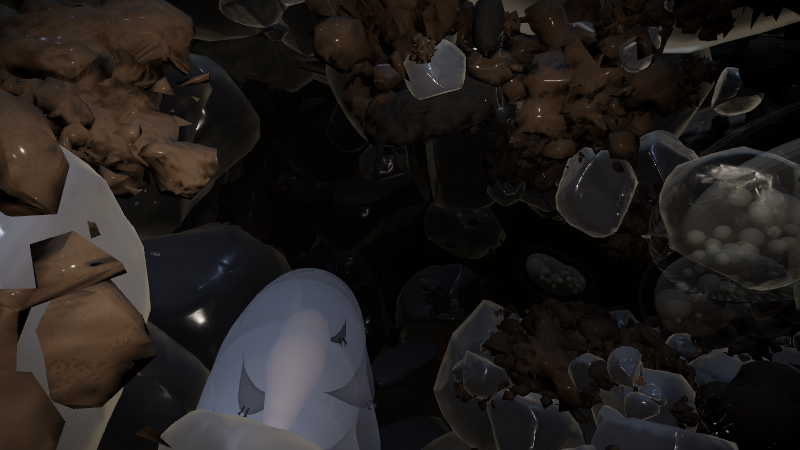
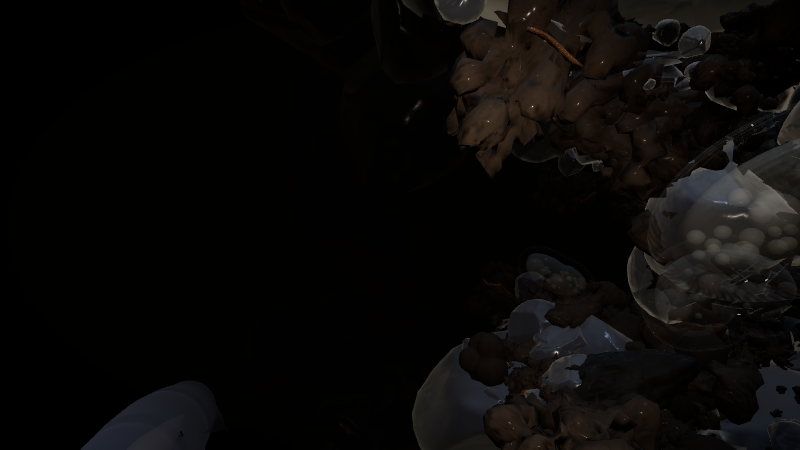
UNDERSOIL: guided organism introductions (camera visits, name labels, colony highlight, replay button), larger tardigrade cavern
Claude-Session: https://claude.ai/code/session_01HXHWaeyj425ipGMnohy3Vo

diff --git a/undersoil/src/pages/screen.ts b/undersoil/src/pages/screen.ts
@@ -7,7 +7,7 @@ import { createRenderer } from '../core/renderer';
 import { setProgressListener } from '../core/assets';
 import { detectDevice, pickTier, rendererPref, TIER_LABEL, type QualityTier } from '../core/platform';
 import { createGame } from '../game/game';
-import { makeFreeControls } from '../game/controls';
+import { makeFreeControls, pushOut } from '../game/controls';
 import { makeDemo } from '../game/demo';
 import { makePost } from '../game/post';
 import { buildSurface, type Surface } from '../game/surface';
@@ -88,7 +88,7 @@ async function main() {
   ($('loadBar') as HTMLElement).style.width = '100%';
   const begin = () => { started = true; audio.start(); setTimeout(() => $('loading').classList.add('hide'), 250); stopFacts(); if (wetQ === null && !testing) setTimeout(() => demo.start(), 2500); };
   // 確認用：?card=<id> で紹介カードをすぐ出す
-  const cardQ = Q.get('card'); if (cardQ && SPECIES[cardQ]) setTimeout(() => { const T: Record<string, () => Target> = { sand: grain('quartz'), aggregate: grain('aggregate'), humus: grain('humus'), clay: grain('clay'), 'water-film': bridge, 'bacillus-subtilis': bacteria, 'pseudomonas-fluorescens': pseudo, colpoda, 'trifolium-repens': seedling, 'paramacrobiotus-metropolitanus': tardi }; const t = T[cardQ]; showCard(SPECIES[cardQ], { narration: false, holdMs: 600000, pointing: !!t }); pointer.show(t ?? null); }, 50);
+  const cardQ = Q.get('card'); if (cardQ && SPECIES[cardQ]) setTimeout(() => { const T: Record<string, () => Target> = { sand: grain('quartz'), aggregate: grain('aggregate'), humus: grain('humus'), clay: grain('clay'), 'water-film': bridge, 'bacillus-subtilis': bacteria, 'pseudomonas-fluorescens': pseudo, colpoda, 'trifolium-repens': seedling, 'paramacrobiotus-metropolitanus': tardi }; const t = T[cardQ]; showCard(SPECIES[cardQ], { narration: false, holdMs: 600000, pointing: !!t }); pointer.show(t ?? null, SPECIES[cardQ].nameJa); if (ORGANISMS.includes(cardQ)) beginVisit(cardQ, t ?? null); }, 1500);
   if (testing) begin(); else { const b = $('start') as HTMLButtonElement; b.hidden = false; b.addEventListener('click', begin, { once: true }); }
 
   // 出会いの順番（M1 の自動の流れ用。M3 で、プレイヤーの位置と行動に結び付ける）
@@ -100,12 +100,47 @@ async function main() {
   const bridge = (): Target => { let best: THREE.Vector3 | null = null, bs = 0; const f = fwd(), d = new THREE.Vector3();
     game.bridges.centers.forEach((c, i) => { if (world.grid.cells[game.bridges.cells[i]].water < 0.3) return; d.subVectors(c, camera.position); const dist = d.length(); if (dist < 3 || dist > 30) return; const cs = d.dot(f) / dist; if (cs < 0.85) return; const sc = cs / (1 + dist * 0.06); if (sc > bs) { bs = sc; best = c; } });
     return best ? { p: (best as THREE.Vector3).clone(), r: 2.5 } : null; };
-  const bacteria = (): Target => game.swarm.find(camera.position, fwd());
-  const pseudo = (): Target => game.swarm2.find(camera.position, fwd());
+  // 細菌の集落：カメラの前になければ、まわりのどの向きからでも探す
+  const dirs = [new THREE.Vector3(1, 0, 0), new THREE.Vector3(-1, 0, 0), new THREE.Vector3(0, 0, 1), new THREE.Vector3(0, 0, -1), new THREE.Vector3(0, 1, 0), new THREE.Vector3(0, -1, 0)];
+  const anyDir = (f: (d: THREE.Vector3) => Target) => () => { const a = f(fwd()); if (a) return a; for (const d of dirs) { const b = f(d); if (b) return b; } return null; };
+  const bacteria = anyDir((d) => { const f = game.swarm.find(camera.position, d); return f ? { ...f, r: 0.6 } : null; });
+  const pseudo = anyDir((d) => { const f = game.swarm2.find(camera.position, d); return f ? { ...f, r: 0.6 } : null; });
   const colpoda = (): Target => { const p = game.creatures.nearest(camera.position); return p ? { p: p.clone(), r: 4.5 } : null; };
   const tardi = (): Target => game.tardigrade.target();
   const seedling = (): Target => mode === 'surface' ? { p: new THREE.Vector3(0.3, surface.groundY + 1.2, 0.2), r: 3.2 } : null;
   let focusT: THREE.Vector3 | null = null;
+  // 生き物を見せに行く：カードが出ている間、カメラはその生き物のそばで止まり、離れていれば暗転して移る
+  const ORGANISMS = ['bacillus-subtilis', 'pseudomonas-fluorescens', 'colpoda', 'paramacrobiotus-metropolitanus'];
+  const VIEW: Record<string, number> = { 'bacillus-subtilis': 2.2, 'pseudomonas-fluorescens': 2.6, colpoda: 13, 'paramacrobiotus-metropolitanus': 70 };
+  let visit: { get: () => Target; dist: number; pos: THREE.Vector3; anchor: THREE.Vector3; ret: THREE.Vector3; retQ: THREE.Quaternion } | null = null;
+  /** 生き物がよく見える位置：まわりの向きを順に試し、間に粒がない向きを選ぶ */
+  const clear = (a: THREE.Vector3, b: THREE.Vector3, skip: number) => { const d = b.clone().sub(a), L = d.length(); d.divideScalar(L);
+    for (const c of world.colliders) { const v = new THREE.Vector3(c.x, c.y, c.z).sub(a); const t = v.dot(d); if (t < 0.5 || t > L - skip) continue; if (v.lengthSq() - t * t < (c.r * 0.95) ** 2) return false; } return true; };
+  const viewFor = (p: THREE.Vector3, dist: number, view?: THREE.Vector3) => {
+    if (view) return view.clone();
+    // まず、生き物が付いている粒の表面の真正面（粒の中心から外へ向かう向き）から見る
+    let host: { x: number; y: number; z: number; r: number } | null = null, hd = 1e9;
+    for (const c of world.colliders) { const d = Math.hypot(p.x - c.x, p.y - c.y, p.z - c.z) - c.r; if (d < hd) { hd = d; host = c; } }
+    if (host && hd < 1.5) { const n = p.clone().sub(new THREE.Vector3(host.x, host.y, host.z)).normalize(); const v = p.clone().addScaledVector(n, dist); pushOut(v, world.colliders, 0.6); if (clear(v, p, dist * 0.3)) return v; }
+    const base = camera.position.clone().sub(p); base.y = 0; if (base.lengthSq() < 1e-4) base.set(1, 0, 0); base.normalize();
+    for (let k = 0; k < 16; k++) {
+      const ang = (k % 8) * Math.PI / 4 * (k % 2 ? 1 : -1) * 0.5 + (k >= 8 ? Math.PI : 0), el = k >= 8 ? 0.6 : 0.3;
+      const d = base.clone().applyAxisAngle(new THREE.Vector3(0, 1, 0), ang); d.y = el; d.normalize();
+      const v = p.clone().addScaledVector(d, dist); pushOut(v, world.colliders, 1.0);
+      if (clear(v, p, dist * 0.35)) return v;
+    }
+    const v = p.clone().addScaledVector(base, dist); pushOut(v, world.colliders, 1.0); return v;
+  };
+  const beginVisit = (id: string, t: (() => Target) | null) => {
+    if (!t || !touring) return; const first = t(); if (!first) return;
+    const dist = VIEW[id] ?? 6, pos = viewFor(first.p, dist, first.view);
+    // 手前の細かい粒で見えなくならないよう、見ている間だけ、カメラのすぐ前（距離の半分まで）は描かない
+    camera.near = Math.max(0.08, dist * 0.5); camera.updateProjectionMatrix();
+    if (id === 'bacillus-subtilis') game.swarm.highlight(first.p); if (id === 'pseudomonas-fluorescens') game.swarm2.highlight(first.p);
+    visit = { get: t, dist, pos, anchor: first.p.clone(), ret: camera.position.clone(), retQ: camera.quaternion.clone() };
+    if (camera.position.distanceTo(pos) > 12) { fade.classList.add('on'); setTimeout(() => { if (visit) { camera.position.copy(visit.pos); const f = visit.get(); if (f) camera.lookAt(f.p); } fade.classList.remove('on'); }, 700); }
+  };
+  const endVisit = () => { game.swarm.highlight(null); game.swarm2.highlight(null); if (!visit) return; const v = visit; visit = null; setTimeout(() => { camera.near = 0.08; camera.updateProjectionMatrix(); }, 700); if (camera.position.distanceTo(v.ret) > 12) { fade.classList.add('on'); setTimeout(() => fade.classList.remove('on'), 700); } };
   const enc = makeEncounters([
     { id: 'sand', when: () => mode === 'soil' && started && !!grain('quartz')(), target: grain('quartz') },
     { id: 'aggregate', when: () => mode === 'soil' && started && !!grain('aggregate')(), target: grain('aggregate') },
@@ -114,10 +149,11 @@ async function main() {
     { id: 'humus', when: () => mode === 'soil' && cellW(4) > 0.4 && !!grain('humus')(), target: grain('humus') },
     { id: 'pseudomonas-fluorescens', when: () => mode === 'soil' && cellM(6) > 0.3 && !!pseudo(), target: pseudo },
     { id: 'colpoda', when: () => mode === 'soil' && game.creatures.anyActive(), target: colpoda },
-    { id: 'paramacrobiotus-metropolitanus', when: () => mode === 'soil' && game.tardigrade.active() && camera.position.distanceTo(world.cavern.center) < 70, target: tardi },
+    { id: 'paramacrobiotus-metropolitanus', when: () => mode === 'soil' && game.tardigrade.active(), target: tardi },
     { id: 'clay', when: () => mode === 'soil' && cellW(8) > 0.4 && !!grain('clay')(), target: grain('clay') },
     { id: 'trifolium-repens', when: () => mode === 'surface' && surface.growth > 0.75, target: seedling },
-  ], { gapSec: 4, onShow: (_id, t) => { audio.chime(); pointer.show(t); }, onHide: () => { pointer.hide(); focusT = null; } });
+  ], { gapSec: 4, onShow: (id, t) => { audio.chime(); pointer.show(t, SPECIES[id]?.nameJa ?? ''); if (ORGANISMS.includes(id)) beginVisit(id, t); }, onHide: () => { pointer.hide(); focusT = null; endVisit(); } });
+  $('meet').addEventListener('click', () => { enc.replay(ORGANISMS); if (!touring) $('tour').click(); });
   $('water').addEventListener('click', () => demo.start());
   $('dry').addEventListener('click', () => demo.dry());
   $('sprout').addEventListener('click', () => switchTo(mode === 'soil' ? 'surface' : 'soil'));
@@ -149,6 +185,7 @@ async function main() {
     const t = fixedT !== null ? Number(fixedT) : now / 1000; const dt = last ? Math.min(0.1, (now - last) / 1000) : 0; last = now;
     if (dbg) { const v = dbg.split(',').map(Number); camera.position.set(v[0], v[1], v[2]); camera.lookAt(v[3], v[4], v[5]); }
     else if (camT !== null) placeOnPath(Number(camT));
+    else if (touring && visit) { const f = visit.get(); if (f) { const want = f.view ? f.view : visit.pos.clone().add(f.p.clone().sub(visit.anchor)); camera.position.lerp(want, 1 - Math.exp(-dt * 1.2)); const q0 = camera.quaternion.clone(); camera.lookAt(f.p); camera.quaternion.slerp(q0, Math.exp(-dt * 3)); } }
     else if (touring && pointer.focus()) { const f = pointer.focus()!; focusT = focusT ? focusT.lerp(f, 1 - Math.exp(-dt * 2)) : look.clone(); const q0 = camera.quaternion.clone(); camera.lookAt(focusT); camera.quaternion.slerp(q0, Math.exp(-dt * 1.5)); }
     else if (touring) { tourU = (tourU + dt * 0.012) % 1; placeOnPath(0.02 + 0.66 * (0.5 - 0.5 * Math.cos(tourU * Math.PI * 2))); /* 奥の種のまわり（まだ作っていない）へは行かない */ }
     else controls.update(dt);

diff --git a/undersoil/src/game/swarm.ts b/undersoil/src/game/swarm.ts
@@ -1,11 +1,11 @@
 // 細菌の群れ：桿菌（両端が丸い棒）をインスタンス描画し、動きは頂点シェーダーで作る。
 // 水の膜の中でだけ泳ぐ。乾いた区画では見えない（芽胞として休眠している）。
 import * as THREE from 'three/webgpu';
-import { float, vec3, instancedBufferAttribute, time, sin, cos, positionLocal, mix, saturate, normalView, positionViewDirection, dot, pow, oneMinus, hash, instanceIndex } from 'three/tsl';
+import { float, vec3, instancedBufferAttribute, time, sin, cos, positionLocal, mix, saturate, normalView, positionViewDirection, dot, pow, oneMinus, hash, instanceIndex , uniform, smoothstep } from 'three/tsl';
 import type { Collider } from './world';
 import { makeRng } from './rng';
 
-export interface Swarm { mesh: THREE.InstancedMesh; count: number; sync(microbesOfCell: (cell: number) => number): void; find(from: THREE.Vector3, fwd: THREE.Vector3): { p: THREE.Vector3; r: number } | null; }
+export interface Swarm { highlight(p: THREE.Vector3 | null): void; mesh: THREE.InstancedMesh; count: number; sync(microbesOfCell: (cell: number) => number): void; find(from: THREE.Vector3, fwd: THREE.Vector3): { p: THREE.Vector3; r: number } | null; }
 
 /** 1 単位 = 10 µm。枯草菌は太さ約 0.8 µm × 長さ 2〜3 µm → 0.08 × 0.25 単位 */
 export type Species = 'bacillus' | 'pseudomonas';
@@ -72,7 +72,11 @@ export function buildSwarm(colliders: Collider[], cellOf: (p: THREE.Vector3) => 
   const rim = pow(oneMinus(saturate(dot(normalView, positionViewDirection))), 2.0);
   m.colorNode = vec3(0.22, 0.23, 0.22);
   m.emissiveNode = vec3(0.06, 0.065, 0.06).mul(rim).add(vec3(0.30, 0.30, 0.26).mul(aBright));   // 芽胞は光を強く屈折して明るく見える
-  m.opacityNode = mix(mix(float(0.04), float(0.45), pow(rim, float(1.6))), float(0.9), aBright);
+  // 紹介中は、指し示した集落の細菌だけを、縁を金色に光らせて見分けやすくする
+  const uHi = uniform(new THREE.Vector3()), uHiOn = uniform(0);
+  const near = smoothstep(2.2, 0.8, aPos.distance(uHi)).mul(uHiOn);
+  m.emissiveNode = vec3(0.06, 0.065, 0.06).mul(rim).add(vec3(0.30, 0.30, 0.26).mul(aBright)).add(vec3(0.55, 0.38, 0.16).mul(rim.mul(0.7).add(0.3)).mul(near));
+  m.opacityNode = mix(mix(mix(float(0.04), float(0.45), pow(rim, float(1.6))), float(0.9), aBright), float(0.95), near.mul(0.7));
   m.roughnessNode = float(0.3); m.metalnessNode = float(0);
   void hash; void instanceIndex;
   const mesh = new THREE.InstancedMesh(geo, m, n2); mesh.name = 'swarm_' + species; mesh.frustumCulled = false;
@@ -82,11 +86,11 @@ export function buildSwarm(colliders: Collider[], cellOf: (p: THREE.Vector3) => 
     const c = new THREE.Vector3(), d = new THREE.Vector3(); let best: THREE.Vector3 | null = null, bs = 0;
     for (let i = 0; i < n2; i += 7) {
       if (liveArr[i] < 0.5) continue; c.set(pos[i * 3], pos[i * 3 + 1], pos[i * 3 + 2]); d.subVectors(c, from); const dist = d.length();
-      if (dist < 3 || dist > 22 || d.dot(fwd) / dist < 0.85) continue;
+      if (dist < 3 || dist > 22 || d.dot(fwd) / dist < 0.85 || nearPath(c) > 9) continue;
       let k = 0; for (let j = 0; j < n2; j += 3) if (liveArr[j] > 0.5 && (pos[j * 3] - c.x) ** 2 + (pos[j * 3 + 1] - c.y) ** 2 + (pos[j * 3 + 2] - c.z) ** 2 < 2.25) k++;
       const sc = k / (1 + dist * 0.05); if (sc > bs) { bs = sc; best = c.clone(); }
     }
     return best ? { p: best, r: 1.6 } : null;
   };
-  return { mesh, count: n2, find, sync(w) { const a = liveAttr.array as Float32Array; let ch = false; for (let i = 0; i < n2; i++) { const target = w(cells[i]) > (i % 97) / 97 * 0.9 + 0.05 ? 1 : 0; if (a[i] !== target) { a[i] += Math.sign(target - a[i]) * 0.2; if (Math.abs(a[i] - target) < 0.2) a[i] = target; ch = true; } } if (ch) liveAttr.needsUpdate = true; } };
+  return { highlight(p) { if (p) { uHi.value.copy(p); uHiOn.value = 1; } else uHiOn.value = 0; }, mesh, count: n2, find, sync(w) { const a = liveAttr.array as Float32Array; let ch = false; for (let i = 0; i < n2; i++) { const target = w(cells[i]) > (i % 97) / 97 * 0.9 + 0.05 ? 1 : 0; if (a[i] !== target) { a[i] += Math.sign(target - a[i]) * 0.2; if (Math.abs(a[i] - target) < 0.2) a[i] = target; ch = true; } } if (ch) liveAttr.needsUpdate = true; } };
 }

diff --git a/undersoil/src/ui/pointer.ts b/undersoil/src/ui/pointer.ts
@@ -28,12 +28,13 @@ export function makePointer(camera: THREE.PerspectiveCamera, scenes: THREE.Scene
   const ring2 = document.createElementNS(NS, 'circle'); ring2.classList.add('pr2');
   const ticks = document.createElementNS(NS, 'path'); ticks.classList.add('pt');
   const arrow = document.createElementNS(NS, 'path'); arrow.classList.add('pa');
-  svg.append(line, ring2, ring, ticks, arrow); document.body.append(svg);
+  const tag = document.createElementNS(NS, 'text'); tag.classList.add('ptag');
+  svg.append(line, ring2, ring, ticks, arrow, tag); document.body.append(svg);
   let get: (() => Target) | null = null, cached: Target = null, refresh = 0, t0 = 0;
   const v = new THREE.Vector3(), e = new THREE.Vector3(), right = new THREE.Vector3();
   return {
     /** 指し示し始める（相手が動くもののときは、毎フレーム位置を取り直す） */
-    show(fn: (() => Target) | null) { get = fn; cached = fn ? fn() : null; refresh = 0; t0 = performance.now(); svg.classList.toggle('on', !!cached); hl.forEach((h) => h.set(cached?.geo, cached?.matrix)); },
+    show(fn: (() => Target) | null, label = '') { tag.textContent = label; get = fn; cached = fn ? fn() : null; refresh = 0; t0 = performance.now(); svg.classList.toggle('on', !!cached); hl.forEach((h) => h.set(cached?.geo, cached?.matrix)); },
     hide() { get = null; cached = null; svg.classList.remove('on'); hl.forEach((h) => h.hide()); },
     /** カメラが向くべき位置（自動で巡っている間だけ使う） */
     focus(): THREE.Vector3 | null { return cached ? cached.p : null; },
@@ -58,11 +59,12 @@ export function makePointer(camera: THREE.PerspectiveCamera, scenes: THREE.Scene
         const cx = Math.max(40, Math.min(W - 40, x)), cy = Math.max(40, Math.min(H - 40, y)), a = Math.atan2(y - H / 2, x - W / 2);
         const tip = (d: number, s: number) => `${cx + Math.cos(a + s) * d},${cy + Math.sin(a + s) * d}`;
         arrow.setAttribute('d', `M${tip(18, 0)} L${tip(14, 2.5)} L${tip(14, -2.5)} Z`); arrow.style.display = '';
-        ring.style.display = ring2.style.display = ticks.style.display = 'none'; line.setAttribute('d', '');
+        ring.style.display = ring2.style.display = ticks.style.display = 'none'; line.setAttribute('d', ''); tag.setAttribute('x', String(cx)); tag.setAttribute('y', String(cy - 26));
         return;
       }
       arrow.style.display = 'none'; ring.style.display = ring2.style.display = cached.geo ? 'none' : ''; ticks.style.display = '';
       ring.setAttribute('cx', String(x)); ring.setAttribute('cy', String(y)); ring.setAttribute('r', String(r * pulse));
+      tag.setAttribute('x', String(x)); tag.setAttribute('y', String(Math.max(28, y - r * 1.22 - 16)));
       ring2.setAttribute('cx', String(x)); ring2.setAttribute('cy', String(y)); ring2.setAttribute('r', String(r * 1.22));
       const t = r * 1.22, k = 9;
       ticks.setAttribute('d', `M${x - t - k},${y} h${k} M${x + t},${y} h${k} M${x},${y - t - k} v${k} M${x},${y + t} v${k}`);

diff --git a/undersoil/src/game/tardigrade.ts b/undersoil/src/game/tardigrade.ts
@@ -21,7 +21,7 @@ export async function buildTardigrade(base: string, world: World, lod: 0 | 1): P
     body.colorNode = mix(mix(vec3(0.42, 0.46, 0.58), vec3(0.52, 0.55, 0.66), tone), vec3(0.62, 0.58, 0.50), cellsN.mul(0.45)).mul(mix(float(1), float(0.55), claw));
     body.roughnessNode = float(0.35); body.metalnessNode = float(0); body.clearcoat = 0.4; body.clearcoatRoughness = 0.25;
     body.opacityNode = mix(mix(float(0.42), float(0.92), rim), float(1.0), claw);
-    body.emissiveNode = vec3(0.10, 0.11, 0.14).mul(rim); }
+    body.emissiveNode = vec3(0.10, 0.11, 0.14).mul(rim).add(vec3(0.05, 0.055, 0.07)); }
   // 中身：口の管と咽頭（硬い部分）は明るい灰、腸は橙褐色
   const inner = new THREE.MeshStandardNodeMaterial();
   { const hard = vc.g; inner.colorNode = mix(vec3(0.55, 0.36, 0.24), vec3(0.62, 0.62, 0.58), smoothstep(0.5, 0.9, hard)); inner.roughnessNode = float(0.6); }
@@ -33,7 +33,7 @@ export async function buildTardigrade(base: string, world: World, lod: 0 | 1): P
   });
   const group = new THREE.Group(); group.add(gltf.scene); group.name = 'tardigrade';
   // 空洞の底に置く
-  const C = world.cavern.center.clone(); const floorY = C.y - world.cavern.radius * 0.55;
+  const C = world.cavern.center.clone(); const floorY = C.y - world.cavern.radius * 0.78;   // 空洞の底（まわりの粒の上）
   group.position.set(C.x, floorY, C.z);
   const cellIdx = world.cellAt(C);
   let wake = 0, walkPh = 0, ang = 0;
@@ -49,7 +49,9 @@ export async function buildTardigrade(base: string, world: World, lod: 0 | 1): P
   return {
     group,
     active: () => wake > 0.8,
-    target: () => ({ p: group.position.clone().add(new THREE.Vector3(0, 8, 0)), r: 30 }),
+    // 見せる位置：空洞の中、道の側の少し上から見下ろす
+    target: () => { const R = world.cavern.radius, toPath = world.path.getPointAt(0.5).sub(C).setY(0).normalize();
+      return { p: group.position.clone().add(new THREE.Vector3(0, 4, 0)), r: 24, view: C.clone().addScaledVector(toPath, R * 0.93).add(new THREE.Vector3(0, -R * 0.12, 0)) }; },
     update(dt) {
       const c = world.grid.cells[cellIdx];
       // 水が戻ると、乾眠の樽から元の姿に戻る（実際は数十分〜数時間。ゲームでは早回し）
@@ -59,7 +61,7 @@ export async function buildTardigrade(base: string, world: World, lod: 0 | 1): P
       if (wake > 0.9) {
         // ゆっくり歩く：1 周期（約 1.6 秒）で約 9.4 単位進む。空洞の底を大きな円を描いて歩く
         walkPh += dt * 2.5; ang += dt * 0.12;
-        const R = world.cavern.radius * 0.35;
+        const R = world.cavern.radius * 0.12;
         group.position.set(C.x + Math.cos(ang) * R, floorY, C.z + Math.sin(ang) * R);
         group.rotation.y = -ang + Math.PI;   // 進む向き（円の接線）へ頭を向ける
       }

diff --git a/undersoil/src/game/world.ts b/undersoil/src/game/world.ts
@@ -70,7 +70,7 @@ export async function buildWorld(base: string, opts: { grainLod: 0 | 1; density:
   for (let k = 0; k < layout.wallTries; k++) {
     const r = rng.range(layout.bigRadius[0], layout.bigRadius[1]) * 0.8;
     const p = new THREE.Vector3(rng.range(B[0] - 30, B[1] + 20), rng.range(B[2] - 30, B[3] + 30), rng.range(B[4] - 30, B[5] + 30));
-    const n = nearest(p); if (n.d < layout.shell + r * 0.5 || n.d > layout.shell + 45 || inSeed(p, r * 0.5)) continue;
+    const n = nearest(p); if (n.d < layout.shell + r * 0.5 || n.d > layout.shell + 45 || inSeed(p, r * 0.5) || inCavern(p, r * 0.8)) continue;
     placements.push({ variant: rng.pick(rng.next() < 0.3 ? VARIANTS.aggregate : VARIANTS.quartz), lod: 2, pos: p, quat: rq(), scale: new THREE.Vector3(r, r * 0.9, r), cell: cellOfSample(n.i), seed: rng.next() });
   }
   // 2) シルト・団粒・腐植：道から外へ向かって進み、最初に当たった砂粒の表面に置く（下向きを多めに＝積もる）
@@ -94,7 +94,7 @@ export async function buildWorld(base: string, opts: { grainLod: 0 | 1; density:
   for (let i = 0; i < big.length; i++) for (let j = i + 1; j < big.length; j++) {
     const a = big[i], b = big[j], d = Math.hypot(a.x - b.x, a.y - b.y, a.z - b.z); if (d > (a.r + b.r) * 1.02) continue;
     const t = a.r / (a.r + b.r), c = new THREE.Vector3(a.x + (b.x - a.x) * t, a.y + (b.y - a.y) * t, a.z + (b.z - a.z) * t);
-    if (nearest(c).d > 22) continue;
+    if (nearest(c).d > 22 || inCavern(c, 2)) continue;
     const ax = new THREE.Vector3(b.x - a.x, b.y - a.y, b.z - a.z).normalize(), u = new THREE.Vector3(rng.range(-1, 1), rng.range(-1, 1), rng.range(-1, 1)).cross(ax).normalize(), w = ax.clone().cross(u);
     const ring = Math.min(a.r, b.r) * 0.45, cnt = Math.round(rng.range(4, 9) * opts.density);
     for (let k = 0; k < cnt; k++) { const ang = rng.range(0, 6.28), rr = ring * rng.range(0.8, 1.15), r = rng.range(0.4, 1.6) * (rng.next() < 0.2 ? 1.8 : 1);

diff --git a/undersoil/src/game/encounters.ts b/undersoil/src/game/encounters.ts
@@ -2,12 +2,14 @@
 import { SPECIES } from './species';
 import { showCard } from '../ui/card';
 
-export type Target = { p: import('three').Vector3; r: number; geo?: import('three').BufferGeometry; matrix?: import('three').Matrix4; obj?: import('three').Object3D } | null;
+export type Target = { p: import('three').Vector3; r: number; geo?: import('three').BufferGeometry; matrix?: import('three').Matrix4; obj?: import('three').Object3D; /** 見せるときのカメラの位置（決まっている場合） */ view?: import('three').Vector3 } | null;
 export interface Encounter { id: string; when: () => boolean; /** 画面のどれを説明しているかを示すための、世界の中の位置と大きさ */ target?: () => Target; }
 export function makeEncounters(list: Encounter[], opts: { calm?: () => boolean; gapSec?: number; onShow?: (id: string, target: (() => Target) | null) => void; onHide?: () => void } = {}) {
   const seen = new Set<string>(); let busy = false, wait = 2;
   return {
     seen,
+    /** もう一度紹介する（生き物を紹介するボタン用） */
+    replay(ids: string[]) { for (const id of ids) seen.delete(id); wait = 0.5; },
     update(dt: number) {
       if (busy) return; wait -= dt; if (wait > 0) return;
       if (opts.calm && !opts.calm()) return; // 緊迫した場面の最中には出さない

diff --git a/undersoil/src/ui/pointer.css b/undersoil/src/ui/pointer.css
@@ -5,3 +5,4 @@ svg.pointer .pr2 { fill: none; stroke: rgba(217, 164, 91, .45); stroke-width: 1;
 svg.pointer .pt { stroke: var(--accent); stroke-width: 1.6; }
 svg.pointer .pl { fill: none; stroke: rgba(217, 164, 91, .85); stroke-width: 1.2; filter: drop-shadow(0 0 3px rgba(0,0,0,.9)); }
 svg.pointer .pa { fill: var(--accent); filter: drop-shadow(0 0 4px rgba(0,0,0,.8)); }
+svg.pointer .ptag { fill: #fff2dc; font: 600 clamp(15px, 1.5vw, 28px) var(--font); text-anchor: middle; paint-order: stroke; stroke: rgba(0,0,0,.75); stroke-width: 4px; letter-spacing: .06em; }

diff --git a/undersoil/index.html b/undersoil/index.html
@@ -29,6 +29,7 @@
   <button class="btn primary" id="water">水を運ぶ</button>
   <button class="btn" id="dry">乾かす</button>
   <button class="btn" id="tour">自分で動く</button>
+  <button class="btn" id="meet">生き物を紹介</button>
   <button class="btn" id="sprout">地上を見る</button>
 </div>
 <div class="stick" id="stick"><i></i></div>

diff --git a/undersoil/Docs/HANDOFF.md b/undersoil/Docs/HANDOFF.md
@@ -64,6 +64,7 @@
 - 「説明に出る生き物・物質を実物と比べて、遜色ないレベルに」→ 顕微鏡写真約50点で比較（`REFERENCE/underground-realism.md`、上位12項目）。対応済み：①材質ごとのつや（団粒・腐植はつやなし）②中立の光、青灰色で半透明の石英、くぼみの鉄のしみ ③地下の被写界深度、奥を土色の暗がりに ④細菌は粒の表面に張り付いた小さな集落、ほぼ透明で縁だけ光る ⑤石英を割れ口のある亜角の形に ⑥粘土を実際の大きさに ⑫の一部：コルポダのシストを二重の殻＋粒の詰まった細胞に。
   2026-11-24 に残り6項目も対応：⑦粒を寄せて接触させ、奥に壁（LOD2）、接点に細かい粒（world.ts）⑧団粒（soil_grains.py）⑨腐植3種 humus_a 炭／b 植物のかけら／c ふん（style でシェーダーを分ける）⑩水の膜は接点だけ（water.ts）⑪swarm.ts の species（bacillus：鎖＋芽胞、pseudomonas：短く泳ぐ。game.swarm2）⑫クマムシ（src/game/tardigrade.ts、空洞 layout.cavern に配置。乾眠⇄歩き、カードあり）。
   確認用：`?hide=名前の先頭`（例 waterBridges, swarm, tardigrade）。**三角形数が増えた**：PC 高画質 約310万、互換 約160万（予算超過。iPad の実機で fps を確かめて調整する）。
+- 「クマムシがどこにいるか分からない。見たことがない人にも、どれがその生き物か分かるように」→ 生き物のカードが出ると、自動で巡っている間はカメラがそのそばへ行く（遠ければ暗転して移る。間に粒がない向きを選び、見ている間は手前の細かい粒を描かない）。名前の札と囲み。細菌は指した集落だけ縁が光る。「生き物を紹介」ボタンで4種を順に再生（encounters.replay）。クマムシの空洞は layout.cavern（半径 58）。
 - 土の中の絵は「いい」との評価。Quest 3 の確認は後日（持ち主）。
 
 ## 既知の問題・未確認
